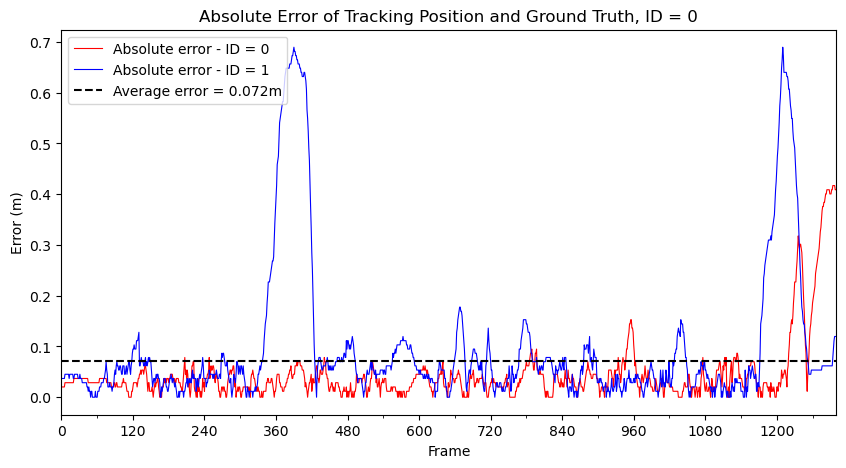
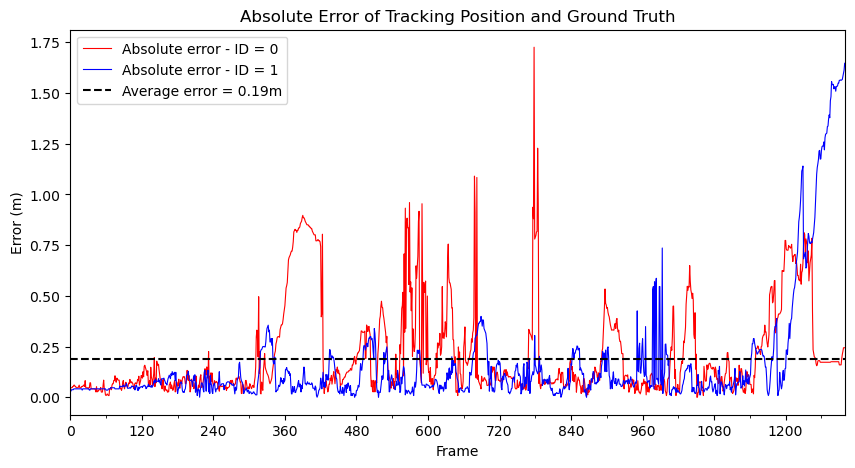
minor changes and graph re-plots

diff --git a/ground_truths.py b/ground_truths.py
@@ -101,6 +101,19 @@ for f in CLIP_DATA:
         TRACK_POINTS['{}'.format(objectID)]["X"].append(centroid[0])
         TRACK_POINTS['{}'.format(objectID)]["Y"].append(centroid[1])
 
+# Clip 1
+TRACK_X = TRACK_POINTS['1']['X'] + TRACK_POINTS['0']['X']
+TRACK_Y = TRACK_POINTS['1']['Y'] + TRACK_POINTS['0']['Y']
+
+# Clip 2
+# TRACK_X = TRACK_POINTS['0']['X'] + TRACK_POINTS['1']['X']
+# TRACK_Y = TRACK_POINTS['0']['Y'] + TRACK_POINTS['1']['Y']
+
+GT_df['tracking_x'] = TRACK_X
+GT_df['tracking_y'] = TRACK_Y
+
+print(GT_df)
+
 INTERVAL = 31
 POLY = 2
 TRACK_POINTS['0']['X'] = savgol_filter(TRACK_POINTS['0']['X'], INTERVAL,
@@ -113,15 +126,25 @@ TRACK_POINTS['1']['Y'] = savgol_filter(TRACK_POINTS['1']['Y'], INTERVAL,
                                        POLY).round().astype(int)
 
 PIXELS2METERS = 6.4/775
+
+# Clip 1
 PLAYER_X = TRACK_POINTS['1']['X'].T
 PLAYER_X = np.append(PLAYER_X, TRACK_POINTS['0']['X'].T)
 PLAYER_Y = TRACK_POINTS['1']['Y'].T
 PLAYER_Y = np.append(PLAYER_Y, TRACK_POINTS['0']['Y'].T)
 
-GT_df['tracking_x'] = PLAYER_X
-GT_df['tracking_y'] = PLAYER_Y
+# Clip 2
+# PLAYER_X = TRACK_POINTS['0']['X'].T
+# PLAYER_X = np.append(PLAYER_X, TRACK_POINTS['1']['X'].T)
+# PLAYER_Y = TRACK_POINTS['0']['Y'].T
+# PLAYER_Y = np.append(PLAYER_Y, TRACK_POINTS['1']['Y'].T)
 
-GT_df['abs_error'] = np.sqrt(abs(GT_df['GT_X'] - GT_df['tracking_x'])**2 + abs(GT_df['GT_X'] - GT_df['tracking_x']))
+
+GT_df['tracking_x_s'] = PLAYER_X
+GT_df['tracking_y_s'] = PLAYER_Y
+
+
+GT_df['abs_error'] = np.sqrt(abs(GT_df['GT_X'] - GT_df['tracking_x'])**2 + abs(GT_df['GT_Y'] - GT_df['tracking_y'])**2)
 GT_df['abs_error_meters'] = GT_df['abs_error'] * PIXELS2METERS
 
 error_0_df = GT_df.loc[GT_df['ID'] == 0, ['frame', 'abs_error_meters']]
@@ -130,13 +153,13 @@ error_1_df = GT_df.loc[GT_df['ID'] == 1, ['frame', 'abs_error_meters']]
 AVG_ERROR_1 = error_1_df['abs_error_meters'].mean()
 
 AVG_ERROR = GT_df['abs_error_meters'].mean()
-print(AVG_ERROR)
+print(GT_df.head())
 
 plt.figure(figsize=(10, 5), dpi= 100)
-plt.title("Absolute Error of Tracking Position and Ground Truth, ID = 0")
-plt.plot(error_0_df['frame'], error_0_df['abs_error_meters'], 'r',
+plt.title("Absolute Error of Tracking Position and Ground Truth")
+plt.plot(error_1_df['frame'], error_1_df['abs_error_meters'], 'r',
          linewidth=0.8, label="Absolute error - ID = 0")
-plt.plot(error_1_df['frame'], error_1_df['abs_error_meters'], 'b',
+plt.plot(error_0_df['frame'], error_0_df['abs_error_meters'], 'b',
          linewidth=0.8, label="Absolute error - ID = 1")
 plt.plot([0, 1300], [AVG_ERROR, AVG_ERROR], 'k--',
          label="Average error = {}m".format(round(AVG_ERROR, 3)))
@@ -146,6 +169,34 @@ plt.xlim(0, 1300) #plt.ylim(0, 0.16)
 plt.xticks(np.arange(0, 1300, step=120))
 plt.axes().xaxis.set_minor_locator(ticker.MultipleLocator(60))
 plt.savefig("results/plots/{}_error_plot.png".format(CLIP), bbox_inches='tight',
+            facecolor='w', edgecolor='k')
+
+
+GT_df['abs_error_s'] = np.sqrt(abs(GT_df['GT_X'] - GT_df['tracking_x_s'])**2 + abs(GT_df['GT_Y'] - GT_df['tracking_y_s'])**2)
+GT_df['abs_error_s_meters'] = GT_df['abs_error_s'] * PIXELS2METERS
+
+error_0_df = GT_df.loc[GT_df['ID'] == 0, ['frame', 'abs_error_s_meters']]
+AVG_ERROR_0 = error_0_df['abs_error_s_meters'].mean()
+error_1_df = GT_df.loc[GT_df['ID'] == 1, ['frame', 'abs_error_s_meters']]
+AVG_ERROR_1 = error_1_df['abs_error_s_meters'].mean()
+
+AVG_ERROR = GT_df['abs_error_s_meters'].mean()
+print(GT_df.head())
+
+plt.figure(figsize=(10, 5), dpi= 100)
+plt.title("Absolute Error of Smoothed Tracking Position and Ground Truth")
+plt.plot(error_1_df['frame'], error_1_df['abs_error_s_meters'], 'r',
+         linewidth=0.8, label="Absolute error - ID = 0")
+plt.plot(error_0_df['frame'], error_0_df['abs_error_s_meters'], 'b',
+         linewidth=0.8, label="Absolute error - ID = 1")
+plt.plot([0, 1300], [AVG_ERROR, AVG_ERROR], 'k--',
+         label="Average error = {}m".format(round(AVG_ERROR, 3)))
+plt.legend(loc='upper left')
+plt.xlabel('Frame'), plt.ylabel('Error (m)')
+plt.xlim(0, 1300) #plt.ylim(0, 0.16)
+plt.xticks(np.arange(0, 1300, step=120))
+plt.axes().xaxis.set_minor_locator(ticker.MultipleLocator(60))
+plt.savefig("results/plots/{}_error_plot_smoothed.png".format(CLIP), bbox_inches='tight',
             facecolor='w', edgecolor='k')
 
 # # Seperate plots 

diff --git a/bbox_draw.py b/bbox_draw.py
@@ -9,7 +9,7 @@ import matplotlib.patches as patches
 
 # insert the keypoints and the image
 n = "001"
-this = "results/mamatch_1_rally_1_1080_60fps_BODY_25_MaxPeople.json/match_1_rally_1_1080_60fps_000000000{0}_keypoints.json".format(n)
+this = "results/OpenPose/Key_Points/mamatch_1_rally_1_1080_60fps_BODY_25_MaxPeople.json/match_1_rally_1_1080_60fps_000000000{0}_keypoints.json".format(n)
 that = "data/frames/match_1_rally_1_1080_60fps/image-{0}.jpeg".format(n)
 
 with open(this) as json_file:
@@ -86,19 +86,20 @@ for n, value in enumerate(person2_KP_new):
     plt.plot(person2_KP_new[n][0], person2_KP_new[n][1], 'ro')
 
 # draws ractagles using the calculated values
-rect1 = plt.Rectangle(
-    (box_origin1[0], box_origin1[1]),
-    width1, height1,
-    fill=False, edgecolor='blue')
-rect2 = plt.Rectangle(
-    (box_origin2[0], box_origin2[1]),
-    width2, height2,
-    fill=False, edgecolor='red')
+# rect1 = plt.Rectangle(
+    # (box_origin1[0], box_origin1[1]),
+    # width1, height1,
+    # fill=False, edgecolor='blue')
+# rect2 = plt.Rectangle(
+    # (box_origin2[0], box_origin2[1]),
+    # width2, height2,
+    # fill=False, edgecolor='red')
 
-# Plots rectagles on the figure
-plt.gca().add_patch(rect1)
-plt.gca().add_patch(rect2)
+# # Plots rectagles on the figure
+# plt.gca().add_patch(rect1)
+# plt.gca().add_patch(rect2)
 
 # Plots the centroids for clarity
-plt.plot(centroid1[0], centroid1[1], 'wo')
-plt.plot(centroid2[0], centroid2[1], 'wo')
+plt.plot(centroid1[0], centroid1[1], 'w+')
+plt.plot(centroid2[0], centroid2[1], 'w+')
+plt.savefig('results/OpenPose/kp_centroids.png', bbox_inches='tight')
